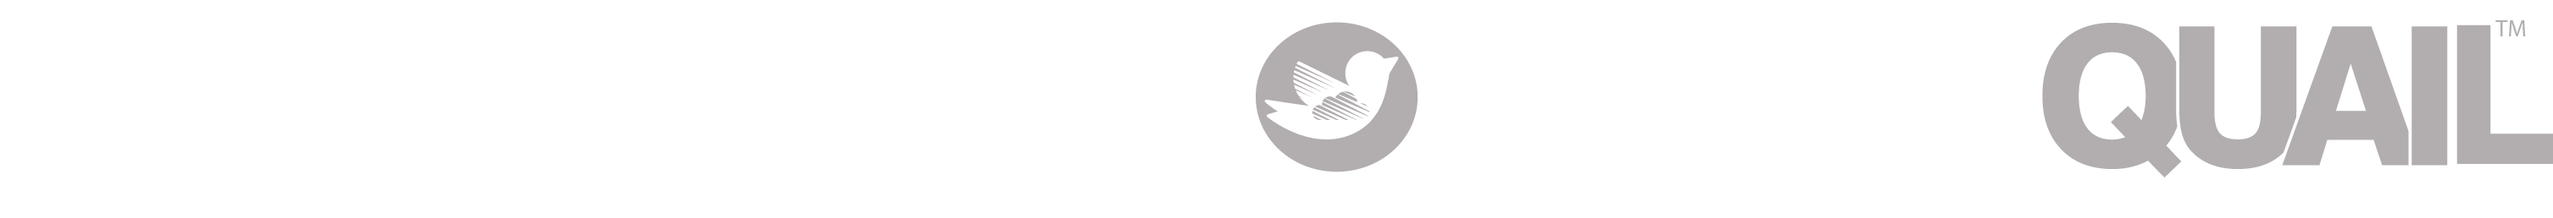
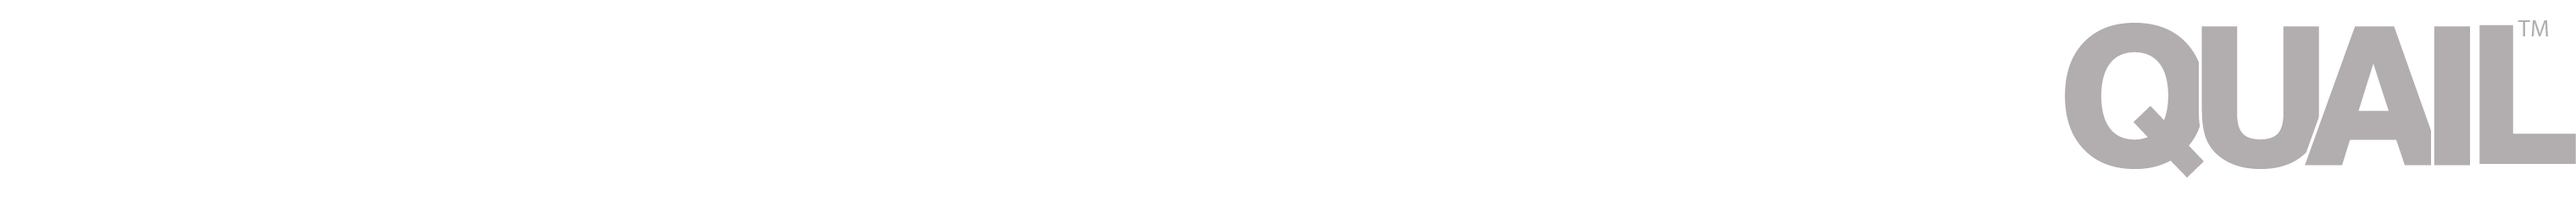
z

Changed region(s): [[0.468, 0.093, 0.5616, 0.8062], [0.8112, 0.124, 0.8735, 0.6512], [0.8112, 0.7442, 0.8735, 0.7752]]

diff --git a/qnd031app/usuarios/templates/footer.html b/qnd031app/usuarios/templates/footer.html
@@ -29,7 +29,7 @@
 
 <p style="font-size:  10px; line-height: 0.8;margin-bottom: 0rem;">
   <a href="https://ec.smartquail.io" class="text-blue-600 hover:underline">
-    <img src="{% static 'assets/images/powered.png' %}" alt="Logo del proveedor" style="width: 120px;" />
+    <img src="{% static 'assets/images/powered.png' %}" alt="Logo del proveedor" style="width: 150px;" />
   </a>
 </p>
    
